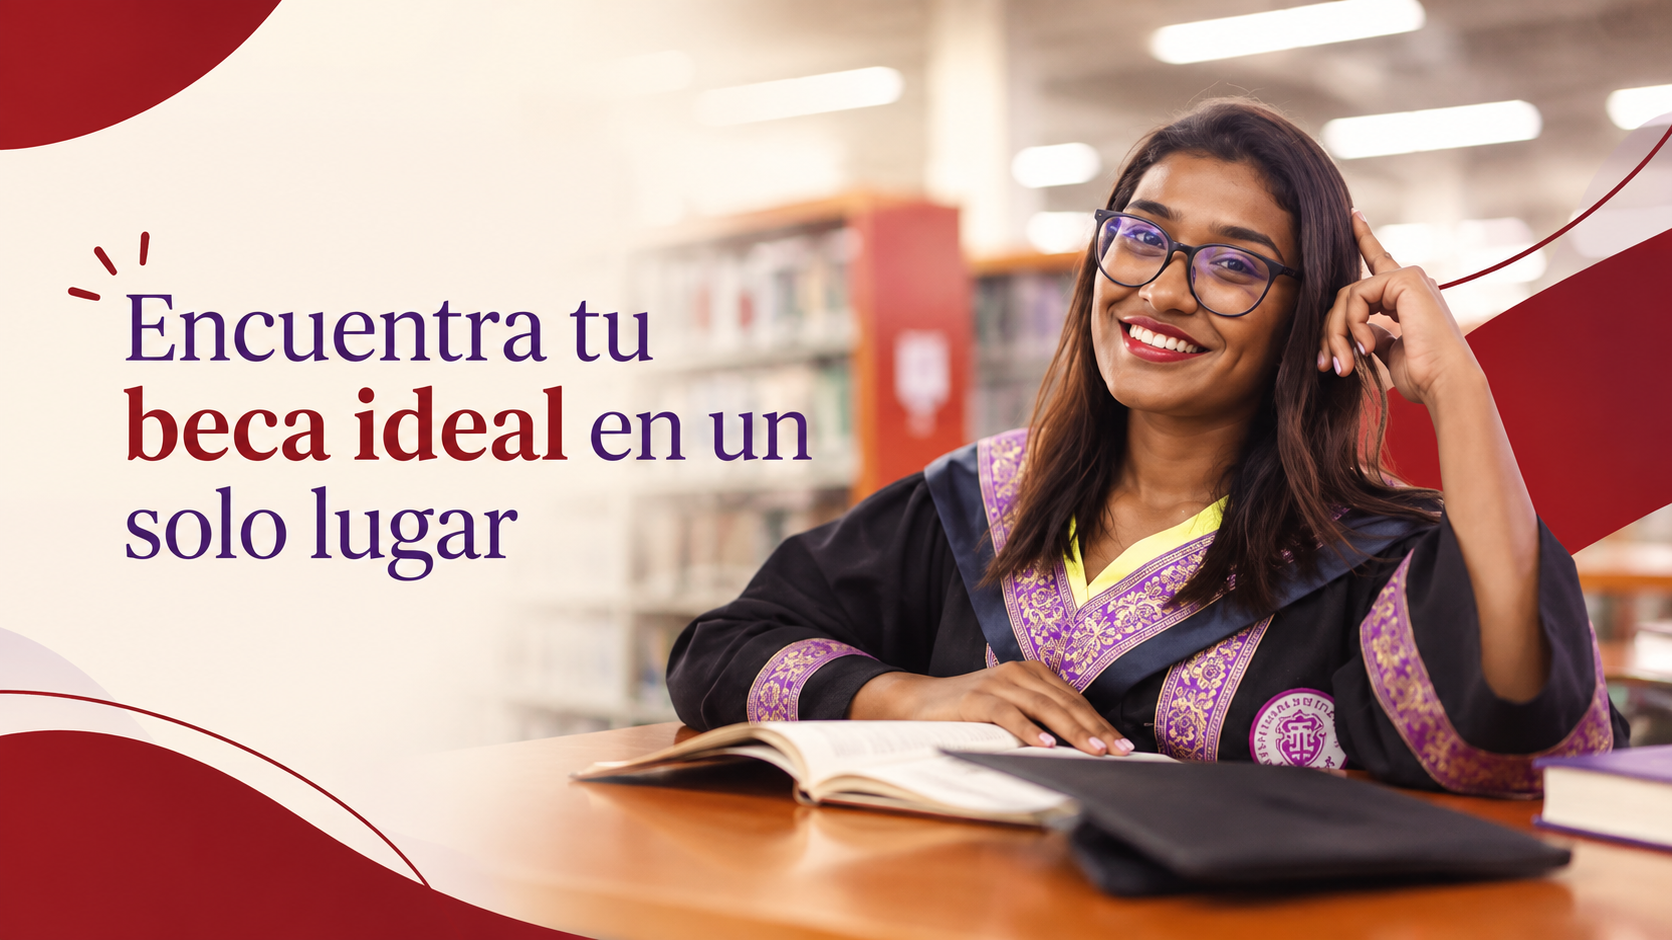
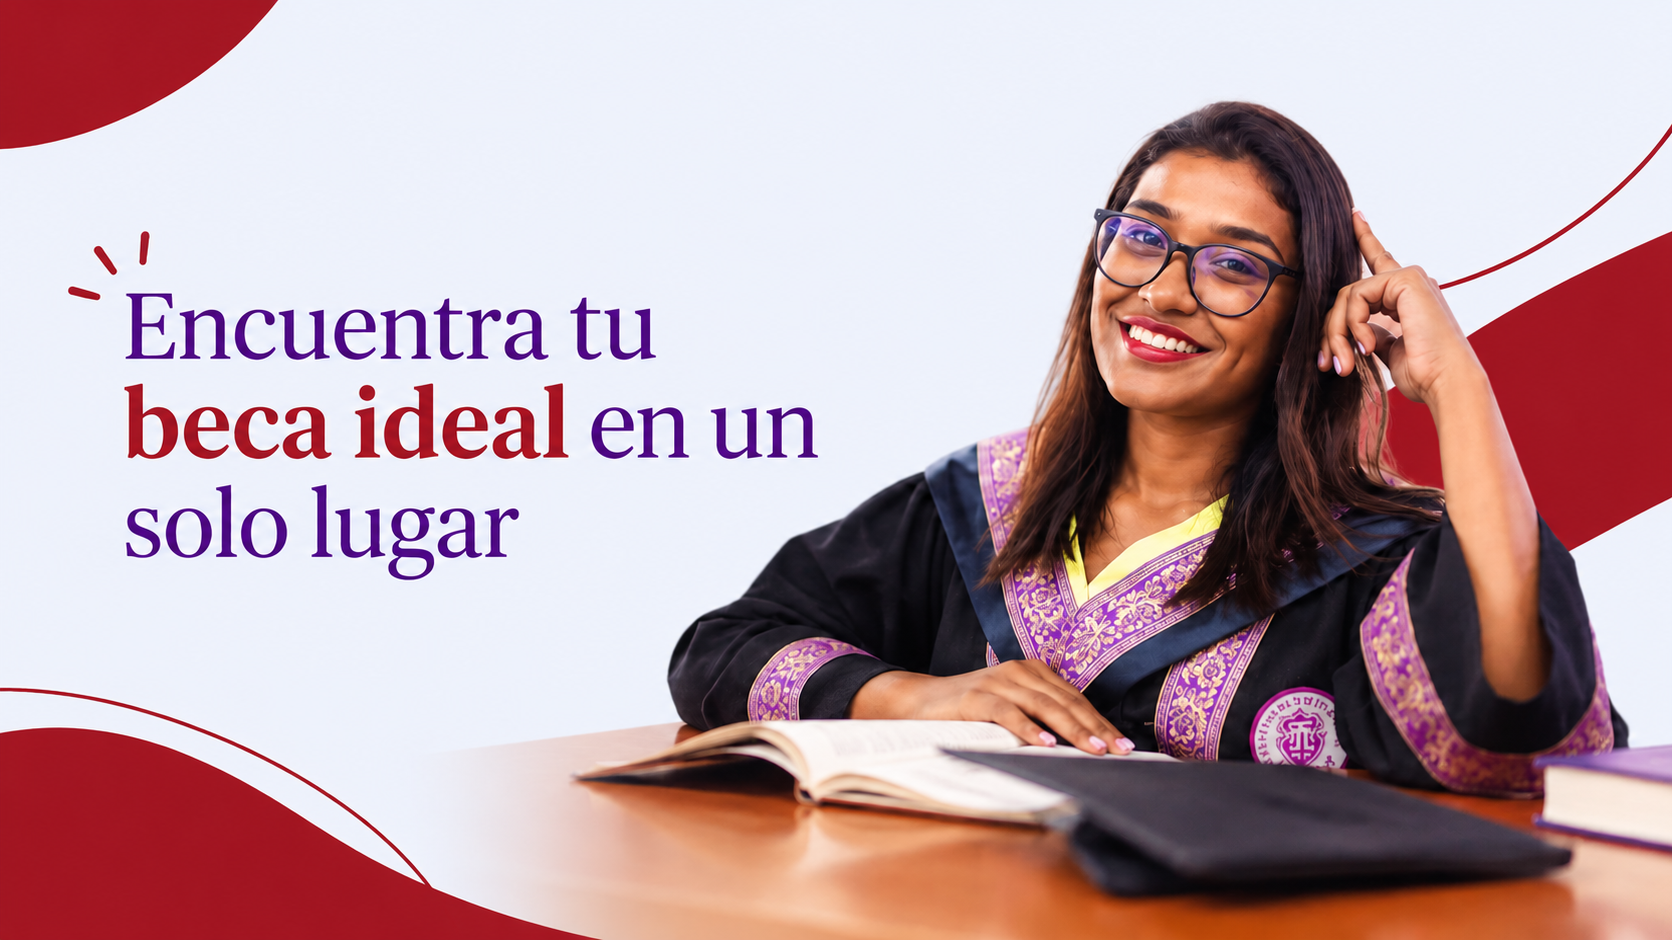
add: nuevos íconos y mejoras en el diseño de la sección de becas

diff --git a/frontend/src/home/layout/HomeLayout.jsx b/frontend/src/home/layout/HomeLayout.jsx
@@ -2,7 +2,7 @@ import "./homeLayout.css";
 import Hero from "../components/hero/Hero";
 import infoBecasImg from "../../assets/icons/home/info-becas-icon.svg";
 
-import personasCelebrando from "../../assets/images/home/personas-celebrando.jpg";
+
 
 import Header from "../components/header/Header";
 import Footer from "../components/footer/Footer";
@@ -26,6 +26,13 @@ import encuentraBeca5 from "../../assets/images/home/encuentra-beca5.png";
 import encuentraBeca6 from "../../assets/images/home/encuentra-beca6.png";
 import encuentraBeca7 from "../../assets/images/home/encuentra-beca7.png";
 import logoCompleto from "../../assets/images/home/unibecas-logo-completo.png";
+
+import iconIngenieria from "../../assets/icons/home/ingenieria-icons.png";
+import iconEconomia from "../../assets/icons/home/economia-icons.png";
+import iconSalud from "../../assets/icons/home/salud-icons.png";
+import iconComunicacion from "../../assets/icons/home/comunicacion-icons.png";
+import iconEducacion from "../../assets/icons/home/educacion-icons.png";
+import iconDerecho from "../../assets/icons/home/derecho-icons.png";
 
 const imagenes = [
   encuentraBeca1,
@@ -122,38 +129,82 @@ const HomeLayout = () => {
         </button>
       </section>
 
-      <section className="contenedor-sobre-nosotros" id="acerca-de-unibecas">
-        <div>
-          <img src={personasCelebrando} alt="Personas celebrando" />
-          <div>
-            <h2>Becas disponibles</h2>
-            <p>
-              En UNIBECAS encontrarás diferentes becas y oportunidades
-              educativas dirigidas a estudiantes de Cartagena. Consulta
-              información sobre universidades, programas académicos, requisitos,
-              beneficios y fechas de postulación para que puedas encontrar
-              opciones que se adapten a tus metas.
-            </p>
-          </div>
-        </div>
+      
+<section className="contenedor-sobre-becas-ofertas" id="sobre-becas">
+  <h2>Oferta académica</h2>
+  <p className="descripcion-oferta">
+    Explora diferentes áreas de estudio y encuentra oportunidades
+    para alcanzar tus metas académicas.
+  </p>
 
-        <div className="sobre-unibecas">
-          <h2>Sobre UNIBECAS</h2>
-          <p>
-            UNIBECAS es una plataforma creada para facilitar el acceso a
-            información sobre becas y oportunidades educativas para los
-            estudiantes de Cartagena. Reunimos en un solo lugar diferentes
-            opciones de universidades, programas y beneficios para que encontrar
-            una oportunidad sea más sencillo.
-          </p>
-          <p>
-            Nuestro propósito es acercar a los estudiantes a nuevas
-            posibilidades para continuar su formación académica, brindándoles
-            información clara y organizada que les permita conocer sus opciones
-            y tomar mejores decisiones sobre su futuro educativo.
-          </p>
-        </div>
-      </section>
+  <div className="contenedor-sobre-becas-ofertas-categorias">
+    <div className="ingenieria-tecnologia tarjeta-categoria">
+      <span className="icono-categoria">
+        <img src={iconIngenieria} alt="Icono de ingeniería" />
+      </span>
+      <h3>Ingeniería y tecnología</h3>
+      <p>Software, sistemas, datos e innovación digital.</p>
+      <span className="flecha-categoria">
+        <img src={arrowRight} alt="Flecha derecha" />
+      </span>
+    </div>
+
+    <div className="economia-negocios tarjeta-categoria">
+      <span className="icono-categoria">
+        <img src={iconEconomia} alt="Icono de economía" />
+      </span>
+      <h3>Economía y negocios</h3>
+      <p>Administración, finanzas y emprendimiento.</p>
+      <span className="flecha-categoria">
+        <img src={arrowRight} alt="Flecha derecha" />
+      </span>
+    </div>
+
+    <div className="salud-bienestar tarjeta-categoria">
+      <span className="icono-categoria">
+        <img src={iconSalud} alt="Icono de salud y bienestar" />
+      </span>
+      <h3>Salud y bienestar</h3>
+      <p>Programas relacionados con la salud y el bienestar.</p>
+      <span className="flecha-categoria">
+        <img src={arrowRight} alt="Flecha derecha" />
+      </span>
+    </div>
+
+    <div className="comunicacion-diseño tarjeta-categoria">
+      <span className="icono-categoria">
+        <img src={iconComunicacion} alt="Icono de comunicación y diseño" />
+      </span>
+      <h3>Comunicación y diseño</h3>
+      <p>Marketing, comunicación, artes y creatividad.</p>
+      <span className="flecha-categoria">
+        <img src={arrowRight} alt="Flecha derecha" />
+      </span>
+    </div>
+
+    <div className="educacion-ciencias tarjeta-categoria">
+      <span className="icono-categoria">
+        <img src={iconEducacion} alt="Icono de educación y ciencias" />
+      </span>
+      <h3>Educación y ciencias</h3>
+      <p>Enseñanza, investigación, idiomas y conocimiento.</p>
+      <span className="flecha-categoria">
+        <img src={arrowRight} alt="Flecha derecha" />
+      </span>
+    </div>
+
+    <div className="derecho-idiomas tarjeta-categoria">
+      <span className="icono-categoria">
+        <img src={iconDerecho} alt="Icono de derecho e idiomas" />
+      </span>
+      <h3>Derecho e idiomas</h3>
+      <p>Legislación, lenguas y relaciones internacionales.</p>
+      <span className="flecha-categoria">
+        <img src={arrowRight} alt="Flecha derecha" />
+      </span>
+    </div>
+  </div>
+</section>
 
       <div className="contenedor-universidades">
         <h2>Universidades afiliadas</h2>
@@ -214,33 +265,33 @@ const HomeLayout = () => {
         >
           {contenedorBecas === "mas-recientes"
             ? becas.map((info) => (
-                <BecaCard
-                  key={info.id_beca}
-                  universidad={info.universidad}
-                  nombre={info.nombre_beca}
-                  fecha_creacion={info.fecha_creacion_sys}
-                  vigencia={info.vigencia_programa}
-                  descripcion={info.descripcion_informacion}
-                  info_aplicar={info.informacion_aplicar}
-                  modalidad={info.modalidad}
-                  estado={info.estado}
-                  cobertura={info.cobertura}
-                />
-              ))
+              <BecaCard
+                key={info.id_beca}
+                universidad={info.universidad}
+                nombre={info.nombre_beca}
+                fecha_creacion={info.fecha_creacion_sys}
+                vigencia={info.vigencia_programa}
+                descripcion={info.descripcion_informacion}
+                info_aplicar={info.informacion_aplicar}
+                modalidad={info.modalidad}
+                estado={info.estado}
+                cobertura={info.cobertura}
+              />
+            ))
             : becasPopulares.map((info) => (
-                <BecaCard
-                  key={info.id_beca}
-                  universidad={info.universidad}
-                  nombre={info.nombre_beca}
-                  fecha_creacion={info.fecha_creacion_sys}
-                  vigencia={info.vigencia_programa}
-                  descripcion={info.descripcion_informacion}
-                  info_aplicar={info.informacion_aplicar}
-                  modalidad={info.modalidad}
-                  estado={info.estado}
-                  cobertura={info.cobertura}
-                />
-              ))}
+              <BecaCard
+                key={info.id_beca}
+                universidad={info.universidad}
+                nombre={info.nombre_beca}
+                fecha_creacion={info.fecha_creacion_sys}
+                vigencia={info.vigencia_programa}
+                descripcion={info.descripcion_informacion}
+                info_aplicar={info.informacion_aplicar}
+                modalidad={info.modalidad}
+                estado={info.estado}
+                cobertura={info.cobertura}
+              />
+            ))}
         </div>
 
         <div className="contenedor-arrows">

diff --git a/frontend/src/home/layout/homeLayout.css b/frontend/src/home/layout/homeLayout.css
@@ -154,45 +154,128 @@ h2 {
   height: 120px;
 }
 
-.contenedor-sobre-nosotros {
-  background-color: var(--color-superficie-morada);
+
+.contenedor-sobre-becas-ofertas {
+  padding: 70px 8%;
+  background-color: #f1f4fc;
+}
+
+.contenedor-sobre-becas-ofertas h2 {
+  margin: 0 0 12px;
+  color: #a31a1c;
+  font-size: 2rem;
+  font-weight: 700;
+}
+
+.descripcion-oferta {
+  max-width: 650px;
+  margin: 0 auto 35px;
+  color: #555;
+  font-size: 1rem;
+  line-height: 2;
+  text-align: center;
+  font-weight: 600;
+}
+
+.contenedor-sobre-becas-ofertas-categorias {
   display: grid;
-  grid-template-columns: 1fr 1fr;
-  gap: 20px;
-  padding: 16px;
-  margin-top: 38px;
+  grid-template-columns: repeat(3, minmax(0, 1fr));
+  gap: 24px;
 }
 
-.contenedor-sobre-nosotros div:first-child div {
-  margin-top: 10px;
+.tarjeta-categoria {
+  position: relative;
+  display: flex;
+  flex-direction: column;
+  align-items: flex-start;
+  min-height: 220px;
+  padding: 26px 24px;
+  border: 2px solid #a31a1c;
+  border-radius: 8px;
+  background-color: #f1f4fc;
+  transition:
+    transform 0.25s ease,
+    box-shadow 0.25s ease,
+    background-color 0.25s ease;
 }
 
-.contenedor-sobre-nosotros div:first-child img {
-  width: 100%;
-  height: 350px;
-  object-fit: cover;
+.tarjeta-categoria:hover {
+  transform: translateY(-5px);
+  background-color: #f1f4fc;
+  box-shadow: 0 8px 22px rgb(125, 23, 221/ 12%);
 }
 
-.contenedor-sobre-nosotros h2 {
-  margin: 0;
-  font-size: 2.38rem;
-  color: var(--color-terciario);
+.icono-categoria {
+  display: flex;
+  align-items: center;
+  justify-content: center;
+  width: 42px;
+  height: 42px;
+  margin-bottom: 20px;
+  border-radius: 8px;
+  background-color: #f1f4fc;
+  color: #7d17dd0f;
+  font-size: 1.8rem;
 }
 
-.contenedor-sobre-nosotros p {
-  margin: 12px 0 0 0;
-  max-width: 800px;
-  font-size: 1.06rem;
+.tarjeta-categoria h3 {
+  margin: 0 0 12px;
+  color: #a31a1c;
+  font-size: 2rem;
   line-height: 1.4;
 }
 
-.contenedor-sobre-nosotros .sobre-unibecas {
-  padding-left: 10px;
+.tarjeta-categoria p {
+  margin: 0 35px 20px 0;
+  color: #444;
+  font-size: 0.95rem;
+  line-height: 1.6;
 }
 
-.contenedor-sobre-nosotros .sobre-unibecas h2 {
-  text-align: start;
-  color: var(--color-primario);
+.flecha-categoria {
+  position: absolute;
+  right: 16px;
+  bottom: 16px;
+  display: flex;
+  align-items: center;
+  justify-content: center;
+  width: 34px;
+  height: 34px;
+  border-radius: 6px;
+  color: #f1f4fc;
+  font-size: 1.8rem;
+  line-height: 1;
+  transition: background-color 0.25s ease;
+}
+
+.tarjeta-categoria:hover .flecha-categoria {
+  background-color: #7d17dd0f;
+}
+
+@media (max-width: 900px) {
+  .contenedor-sobre-becas-ofertas-categorias {
+    grid-template-columns: repeat(2, minmax(0, 1fr));
+  }
+}
+
+@media (max-width: 600px) {
+  .contenedor-sobre-becas-ofertas {
+    padding: 45px 5%;
+  }
+
+  .contenedor-sobre-becas-ofertas-categorias {
+    grid-template-columns: 1fr;
+    gap: 18px;
+  }
+
+  .tarjeta-categoria {
+    min-height: 190px;
+  }
+}
+.icono-categoria img {
+  width: 44px;
+  height: 44px;
+  object-fit: contain;
 }
 
 .seccion-becas {

diff --git a/frontend/src/index.css b/frontend/src/index.css
@@ -1,6 +1,6 @@
 :root {
   --color: #000;
-  --background: #f0f4ff;
+  --background: #eef2fb;
   --color-primario: #a31a1c;
   --color-secundario: #1250a8;
   --color-terciario: #7f44a0;
